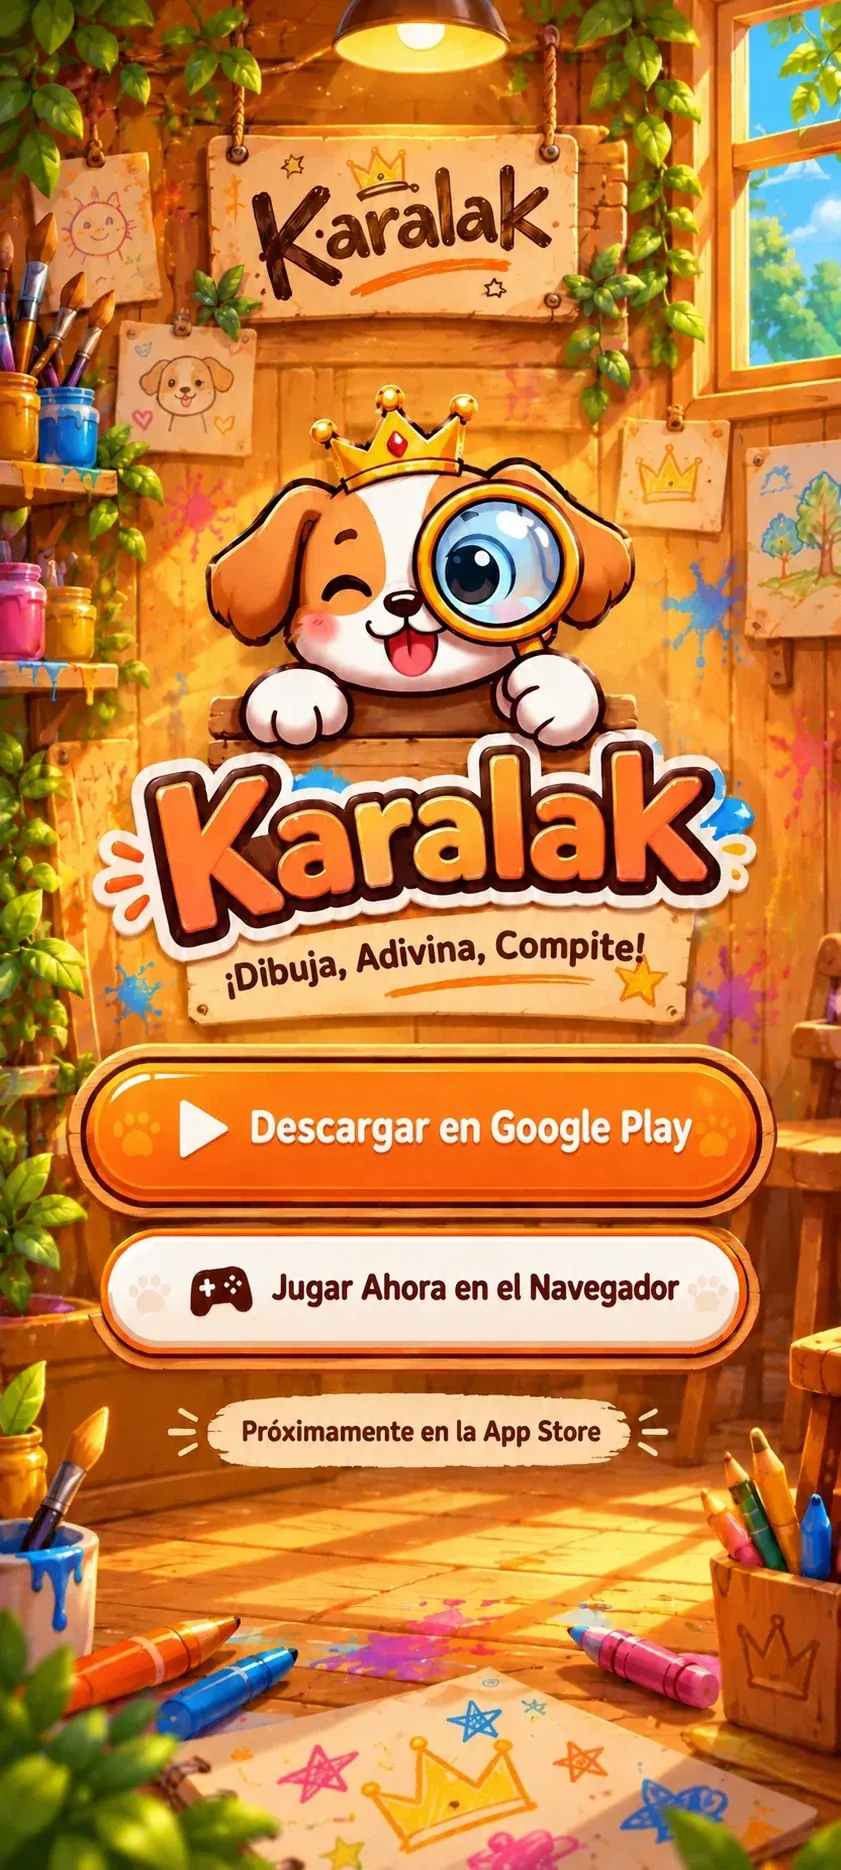
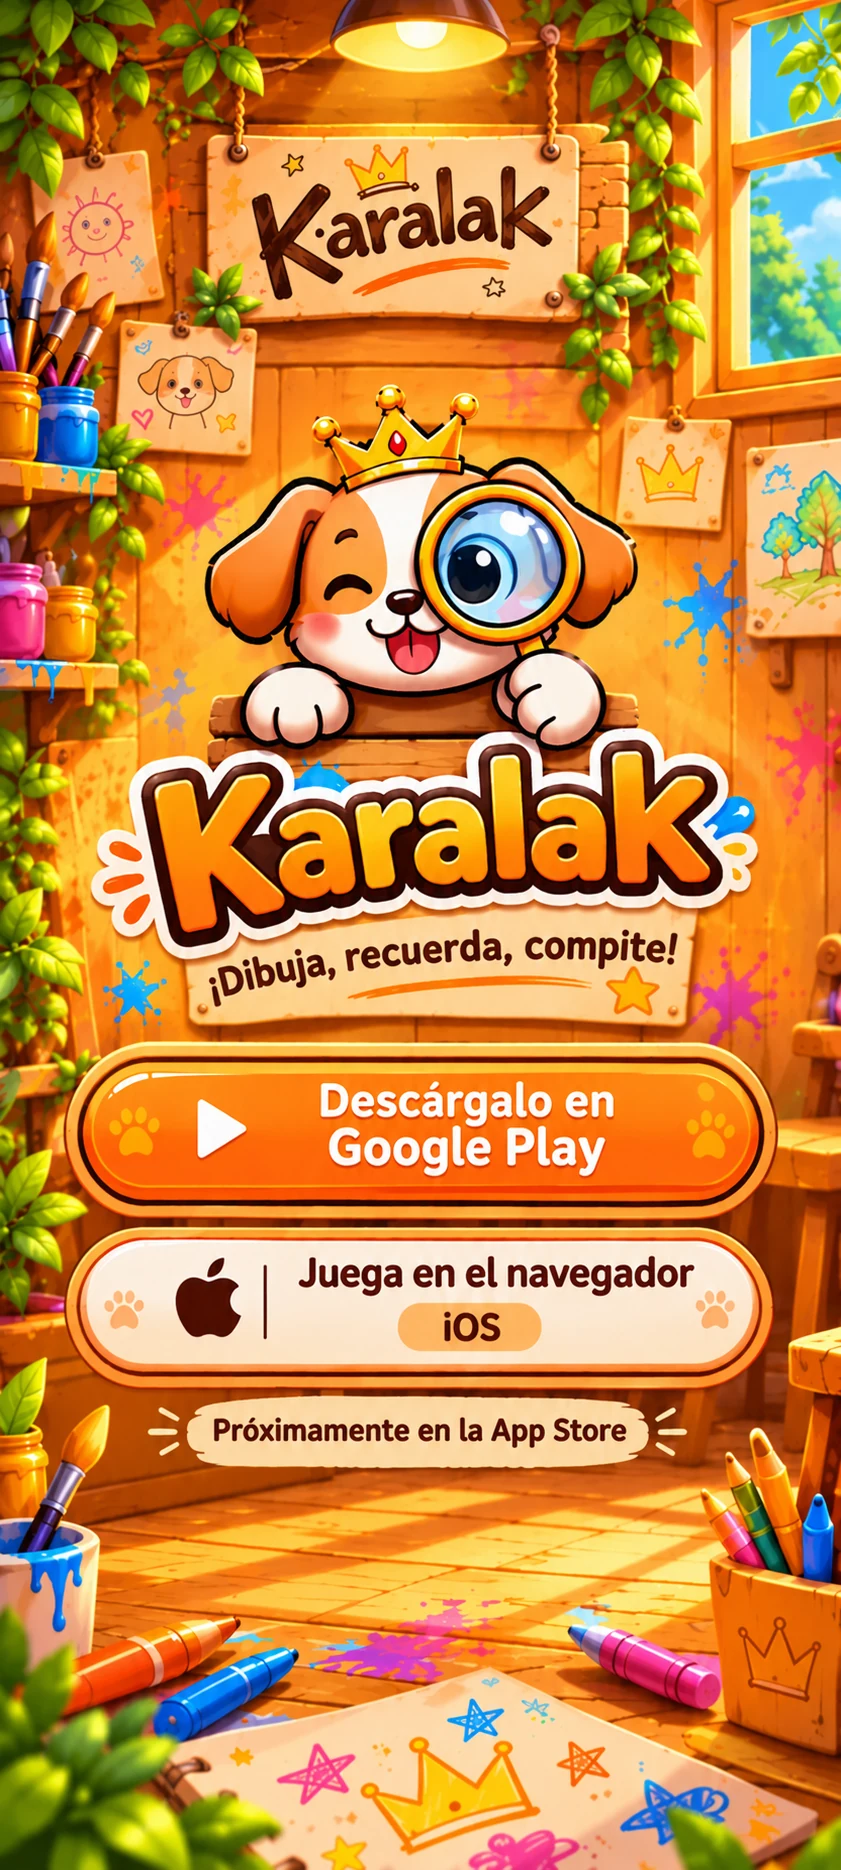
İndirme sayfası: tarayıcı düğmesinde iOS bilgisi, yeni görseller (#319)
* Play Store ikonu: kenarda turuncu zemin kalmadan, taçlı köpek tam kareyi kaplar

Claude-Session: https://claude.ai/code/session_01Ezr1UNKD7sSJqoQ1n3gCXM

* Play Store ikonu: elle hazırlanan tam kare ikon (1254 kaynak, 512 çıktı)

Claude-Session: https://claude.ai/code/session_01Ezr1UNKD7sSJqoQ1n3gCXM

* Bil Bakalım bağlantıları ve arkadaş serisi

Bil Bakalım: oyuncu bir çizimini bağlantıya çevirir (sonuç ekranında "Arkadaşına sor"),
arkadaşı çizimin çizilişini izleyip 3 denemede bilir, sonra "sıra sende" ile aynı
kelimeyi çizip kendi bağlantısını gönderir.
- Kelime bağlantıda yok: tuzlu SHA-256 özeti, kelimenin biçimi ve ilk harfi (GuessCodec);
  tahmin özetle karşılaştırılır, cevap herkese açık kelime listesinden bulunur.
- karalak.com/b/KOD: iPhone ve bilgisayarda web'de oynanır; Android tarayıcıda oynatılmaz,
  uygulamaya (karalak://guess, App Link) ya da Play Store'a (kurulumdan sonra çizime açılır) yönlendirilir.
- Bildirim yok (Blaze yok): gönderenin sonuçları uygulama açılınca pencereyle gelir; bilen
  arkadaş başına 20 altın (günde 5'e kadar). Çizim yanlış kullanıma karşı Bildir düğmesi,
  çocuk modunda kapalı, günlük bağlantı sınırı, 30 gün sonra süre dolumu (günlük temizlik).

Arkadaş serisi: iki arkadaş arasında günde en az 10 kelimelik bir düello tamamlanırsa gün sayılır.
- friendStreaks/{çift}: kurallar geçişleri tutar (devam, tek günlük kopuş için onarım, yeni seri).
[…]

diff --git a/cizim-hafiza/hosting/indir/index.html b/cizim-hafiza/hosting/indir/index.html
@@ -132,9 +132,9 @@
     setTimeout(function () { location.href = intent; }, 300);
   }
   // an iPhone has no app: the browser game is the main button there
-  // the browser game is for iPhones and iPads only: everybody else gets the store, the painted "play in the browser" button included
+  // the browser game is for iPhones and iPads only: everybody else gets the store only
   var iosDevice = ios || (navigator.platform === "MacIntel" && navigator.maxTouchPoints > 1);
-  if (!iosDevice) { $("web").style.display = "none"; var pw = document.querySelector(".pg a.web"); if (pw) pw.href = store; }
+  if (!iosDevice) { $("web").style.display = "none"; var pw = document.querySelector(".pg a.web"); if (pw) { pw.removeAttribute("href"); pw.style.pointerEvents = "none"; } } // the painted button says iOS: it does nothing elsewhere
   if (ios) { $("store").className = "btn second"; $("web").className = "btn primary"; $("store").parentNode.insertBefore($("web"), $("store")); }
 })();
 </script>
